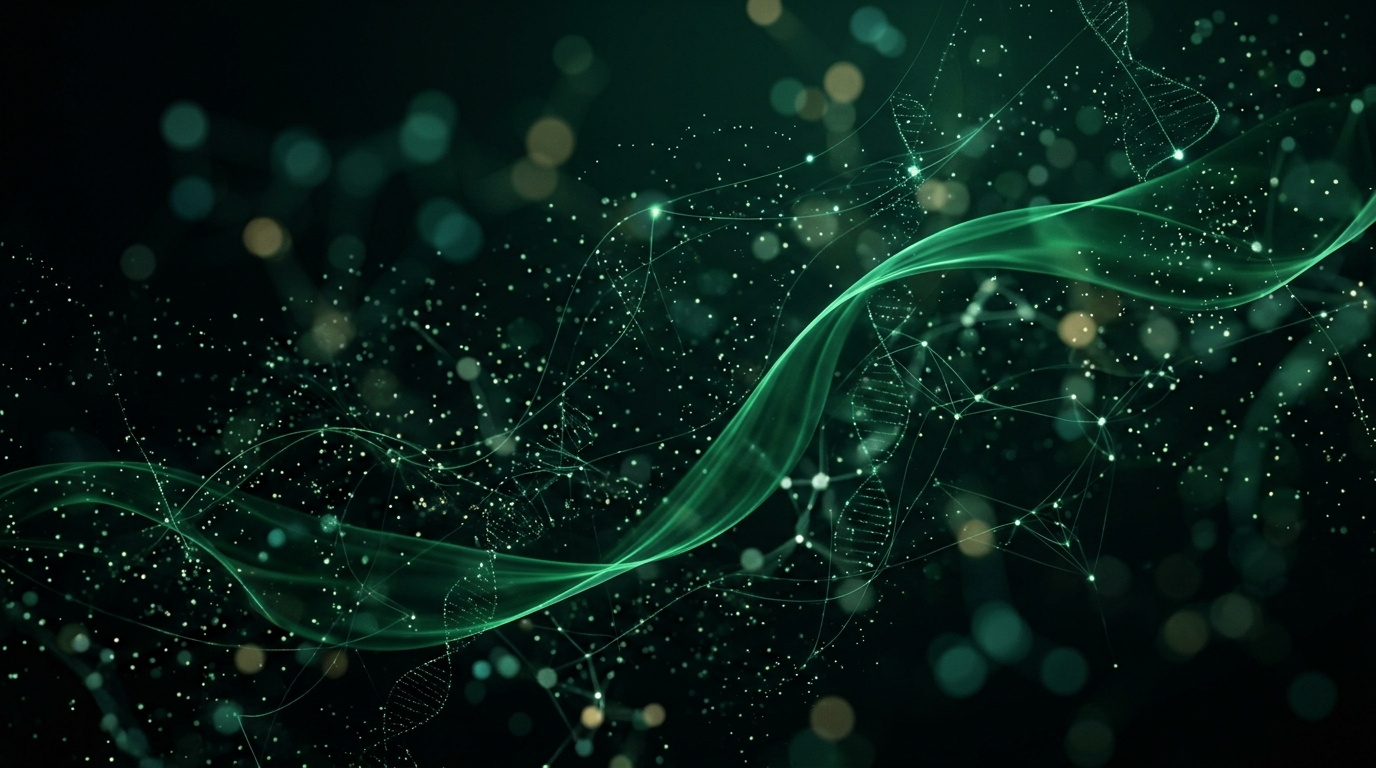
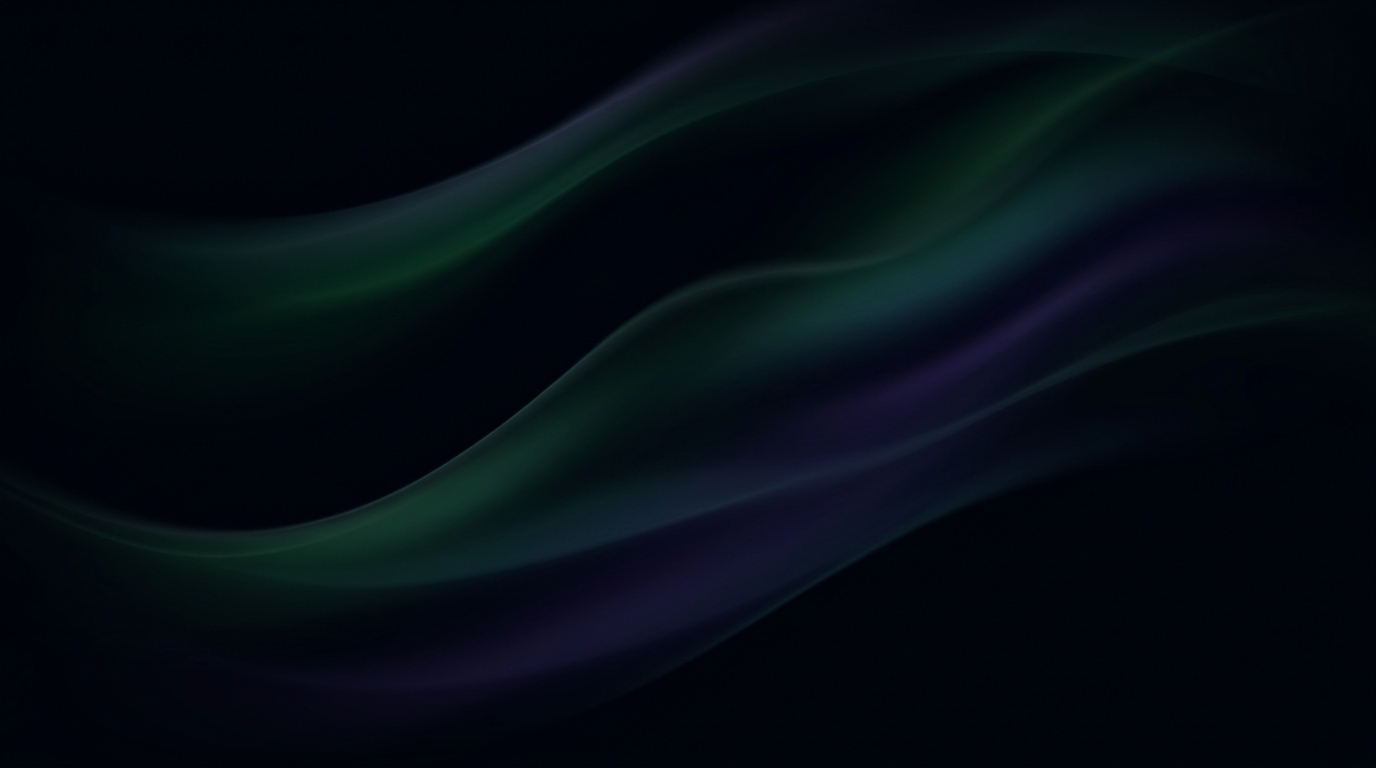
feat(login-design): upgrade login background to luxury obsidian aurora and replace left visual with high-end 3D crystal orb sculpture

diff --git a/frontend/src/pages/LoginPage.jsx b/frontend/src/pages/LoginPage.jsx
@@ -122,8 +122,8 @@ export default function LoginPage({ onLoginSuccess }) {
               {/* Background Bespoke 3D Planet Image with Slow Ambient Drift */}
               <div className="absolute inset-0 overflow-hidden pointer-events-none">
                 <img
-                  src="/assets/bionet_biotech_hero.jpg"
-                  alt="SYNETIQ 3D Biotech Planet with Binary Nodes"
+                  src="/assets/synetiq_luxury_hero_art.jpg"
+                  alt="SYNETIQ Luxury 3D Crystal Hero Art"
                   className="w-full h-full object-cover object-center opacity-85 group-hover:scale-105 transition-transform duration-1000"
                 />
                 {/* Soft gradient scrims for maximum text readability */}
@@ -147,9 +147,9 @@ export default function LoginPage({ onLoginSuccess }) {
               {/* Floating Glassmorphic Badges (Apple/Stripe Style) */}
               <div className="relative z-20 my-auto py-8 select-none">
                 {/* Floating Badge 1 (Top Right) */}
-                <div className="absolute -top-4 right-1 animate-float-slow hidden sm:flex items-center gap-2 px-3 py-2 rounded-2xl bg-slate-900/85 backdrop-blur-xl border border-emerald-500/30 shadow-lg text-[11px] text-white">
+                <div className="absolute -top-4 right-1 animate-float-slow hidden sm:flex items-center gap-2 px-3 py-1.5 rounded-2xl bg-slate-950/80 backdrop-blur-2xl border border-white/15 shadow-2xl text-[11px] text-white">
                   <div className="w-6 h-6 rounded-lg bg-emerald-500/20 border border-emerald-400/40 flex items-center justify-center text-emerald-400 font-bold">
-                    🌿
+                    <ShieldCheck size={13} className="text-emerald-400" />
                   </div>
                   <div>
                     <span className="font-bold block leading-tight text-emerald-300">Bio-Herbal BPOM</span>
@@ -158,9 +158,9 @@ export default function LoginPage({ onLoginSuccess }) {
                 </div>
 
                 {/* Floating Badge 2 (Middle Left) */}
-                <div className="absolute top-1/2 -left-2 -translate-y-1/2 animate-float-reverse hidden sm:flex items-center gap-2 px-3 py-2 rounded-2xl bg-slate-900/85 backdrop-blur-xl border border-teal-500/30 shadow-lg text-[11px] text-white">
+                <div className="absolute top-1/2 -left-2 -translate-y-1/2 animate-float-reverse hidden sm:flex items-center gap-2 px-3 py-1.5 rounded-2xl bg-slate-950/80 backdrop-blur-2xl border border-white/15 shadow-2xl text-[11px] text-white">
                   <div className="w-6 h-6 rounded-lg bg-teal-500/20 border border-teal-400/40 flex items-center justify-center text-teal-400 font-bold">
-                    ⚡
+                    <Zap size={13} className="text-teal-400" />
                   </div>
                   <div>
                     <span className="font-bold block leading-tight text-teal-300">Flip.id Gateway</span>
@@ -169,9 +169,9 @@ export default function LoginPage({ onLoginSuccess }) {
                 </div>
 
                 {/* Floating Badge 3 (Bottom Right) */}
-                <div className="absolute -bottom-2 right-2 animate-float-slow hidden sm:flex items-center gap-2 px-3 py-2 rounded-2xl bg-slate-900/85 backdrop-blur-xl border border-amber-500/30 shadow-lg text-[11px] text-white">
+                <div className="absolute -bottom-2 right-2 animate-float-slow hidden sm:flex items-center gap-2 px-3 py-1.5 rounded-2xl bg-slate-950/80 backdrop-blur-2xl border border-white/15 shadow-2xl text-[11px] text-white">
                   <div className="w-6 h-6 rounded-lg bg-amber-500/20 border border-amber-400/40 flex items-center justify-center text-amber-400 font-bold">
-                    🧬
+                    <Network size={13} className="text-amber-400" />
                   </div>
                   <div>
                     <span className="font-bold block leading-tight text-amber-300">Pohon Binary</span>
@@ -181,26 +181,28 @@ export default function LoginPage({ onLoginSuccess }) {
               </div>
 
               {/* Bottom Section: Kinetic Rotating Storytelling */}
-              <div className="relative z-20 pt-4">
-                <div className="transition-all duration-700 ease-out">
-                  <h3 className="font-heading font-black text-xl sm:text-2xl text-white tracking-tight leading-snug">
-                    {headlines[activeHeadlineIdx].title}
-                  </h3>
-                  <p className="text-xs text-slate-300 mt-1.5 leading-relaxed font-normal">
-                    {headlines[activeHeadlineIdx].desc}
-                  </p>
-                </div>
+              <div className="relative z-20 pt-2 mt-auto">
+                <div className="p-4 sm:p-5 rounded-2xl bg-slate-950/75 backdrop-blur-xl border border-white/10 shadow-2xl">
+                  <div className="transition-all duration-700 ease-out">
+                    <h3 className="font-heading font-black text-lg sm:text-xl text-white tracking-tight leading-snug">
+                      {headlines[activeHeadlineIdx].title}
+                    </h3>
+                    <p className="text-xs text-slate-300 mt-1 leading-relaxed font-normal">
+                      {headlines[activeHeadlineIdx].desc}
+                    </p>
+                  </div>
 
-                {/* Interactive Feature Pills */}
-                <div className="flex items-center gap-1.5 flex-wrap mt-4 text-[10px] font-bold text-slate-200">
-                  <span className="px-2.5 py-1 rounded-full bg-slate-900/80 border border-white/10 shadow-xs flex items-center gap-1">
-                    <Zap size={11} className="text-amber-400" />
-                    <span>Flush-Out 12 Pasang</span>
-                  </span>
-                  <span className="px-2.5 py-1 rounded-full bg-slate-900/80 border border-white/10 shadow-xs flex items-center gap-1">
-                    <ShieldCheck size={11} className="text-emerald-400" />
-                    <span>Anti-Sybil Security</span>
-                  </span>
+                  {/* Interactive Feature Pills */}
+                  <div className="flex items-center gap-1.5 flex-wrap mt-3 text-[10px] font-bold text-slate-200">
+                    <span className="px-2.5 py-1 rounded-full bg-white/5 border border-white/10 shadow-xs flex items-center gap-1">
+                      <Zap size={11} className="text-amber-400" />
+                      <span>Flush-Out 12 Pasang</span>
+                    </span>
+                    <span className="px-2.5 py-1 rounded-full bg-white/5 border border-white/10 shadow-xs flex items-center gap-1">
+                      <ShieldCheck size={11} className="text-emerald-400" />
+                      <span>Anti-Sybil Security</span>
+                    </span>
+                  </div>
                 </div>
               </div>
             </div>

diff --git a/frontend/src/components/BionetAmbientBackground.jsx b/frontend/src/components/BionetAmbientBackground.jsx
@@ -72,7 +72,7 @@ export default function SYNETIQAmbientBackground({ dimmed = false, activeMode = 
     window.addEventListener('resize', handleResize);
 
     // Titik node jaringan MLM SYNETIQ (Kiri, Kanan, Leader, Bonus Pairing)
-    const nodeCount = Math.min(width > 768 ? 45 : 25, 55);
+    const nodeCount = Math.min(width > 768 ? 30 : 16, 38);
     const nodes = [];
     const colors = ['#10b981', '#14b8a6', '#06b6d4', '#eab308', '#34d399'];
 
@@ -82,7 +82,7 @@ export default function SYNETIQAmbientBackground({ dimmed = false, activeMode = 
         y: Math.random() * height,
         vx: (Math.random() - 0.5) * 0.6,
         vy: (Math.random() - 0.5) * 0.6,
-        radius: Math.random() * 2.5 + 1.5,
+        radius: Math.random() * 1.5 + 0.8,
         color: colors[Math.floor(Math.random() * colors.length)],
         pulse: Math.random() * Math.PI,
       });
@@ -123,7 +123,7 @@ export default function SYNETIQAmbientBackground({ dimmed = false, activeMode = 
             ctx.moveTo(nodes[i].x, nodes[i].y);
             ctx.lineTo(nodes[j].x, nodes[j].y);
             ctx.strokeStyle = `rgba(16, 185, 129, ${alpha})`;
-            ctx.lineWidth = 0.8;
+            ctx.lineWidth = 0.5;
             ctx.stroke();
           }
         }
@@ -180,13 +180,13 @@ export default function SYNETIQAmbientBackground({ dimmed = false, activeMode = 
       {(mode === 'luxury-biotech' || mode === 'biotech') && (
         <div className="absolute inset-0 overflow-hidden">
           <img
-            src="/assets/bionet_ambient_luxury.jpg"
-            alt="SYNETIQ Luxury Biotech Background"
-            className="absolute inset-0 w-full h-full object-cover opacity-90 scale-105 transition-transform duration-1000"
+            src="/assets/synetiq_ambient_luxury_bg.jpg"
+            alt="SYNETIQ Luxury Ambient Background"
+            className="absolute inset-0 w-full h-full object-cover opacity-95 transition-transform duration-1000"
           />
           <canvas
             ref={canvasRef}
-            className="absolute inset-0 w-full h-full pointer-events-auto"
+            className="absolute inset-0 w-full h-full pointer-events-auto opacity-60"
           />
         </div>
       )}
